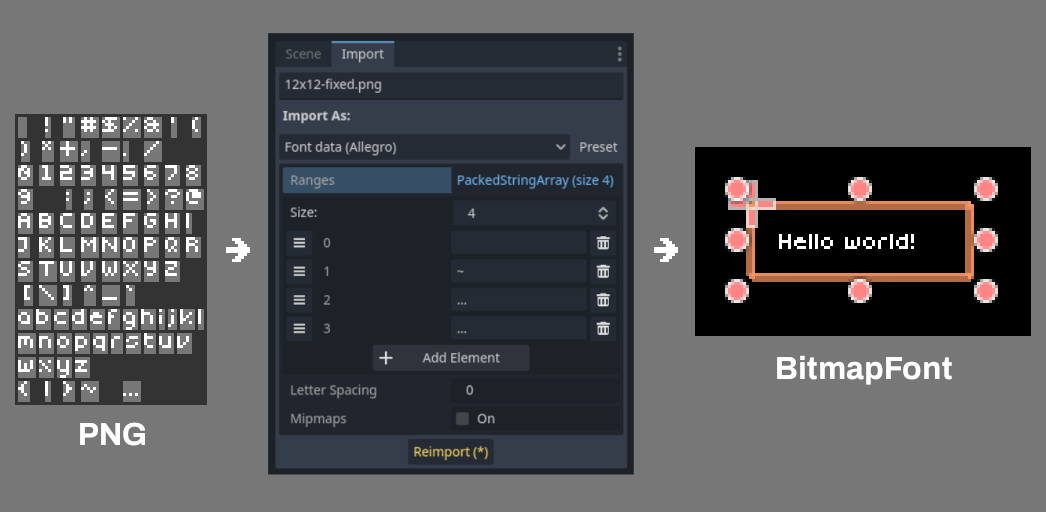
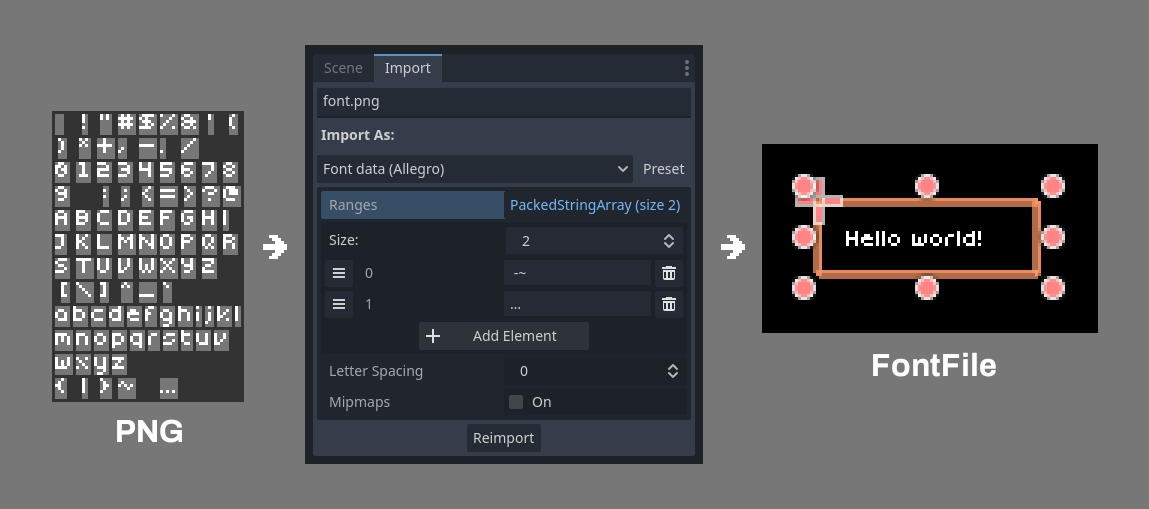
various readme+image changes
this is to bring everything up-to-date for #12

diff --git a/README.md b/README.md
@@ -12,8 +12,6 @@ Like the included monospaced bitmap font importer, this allows you to create bit
 
 ## Image format
 
-> This is heavily adapted from [Allegro's documentation](https://liballeg.org/a5docs/trunk/font.html#al_grab_font_from_bitmap).
-
 Let's explain this by example. Here's a valid (albeit tiny) PNG pixel font for the glyphs `123` and `ABC`:
 
 ![Example](./.images/example.png)
@@ -24,7 +22,7 @@ Now, let's look at how the importer interprets it. Here's that image scaled-up:
 
 * The top-leftmost pixel defines the **delimiter colour**. Every outside pixel in the image must also be this colour.
   * In the PNG above, the delimiter colour is mid-grey (`#7f7f7f`).
-  * This **shouldn't be transparent**. Instead - unlike the above - your glyphs should have transparent backgrounds, because the backgrounds will be drawn too! We've just used black so you can see it on the page.
+  * This **shouldn't be transparent**. Instead - unlike the above - your glyphs should have transparent backgrounds. Otherwise the backgrounds will be drawn too! We've just used black so you can see it on the page.
 * Glyphs are read in left-to-right, then top-to-bottom.
   * You'll probably want to arrange the glyphs in their Unicode ordering; you'll see why below.
 * Glyphs can vary in width, but must be the **same height**.
@@ -41,17 +39,23 @@ Then, select 'Font data (Allegro)' from the dropdown:
 
 ![UI](./.images/ui.png)
 
-Each pair of strings in 'Ranges' defines an **inclusive** range of Unicode characters to import from the image. So, in the above screenshot, `123` and `ABC` are imported - meaning these settings would correctly import the font we used as an example.
+Each string in 'Ranges' defines an **inclusive** range of Unicode characters to import from the image, separated by a `-`. So, in the above screenshot, `123` and `ABC` are imported - meaning these settings would correctly import the font we described above.
 
----
+### Importing single characters
 
-'Letter Spacing' is useful for padding out characters or pushing them together (if set to a negative value). The latter is especially useful for reducing the spacing on fonts which have an outline:
+If you're using a single wacky Unicode character somewhere, just type that character as the range (don't use a `-`). The example shown [at the top of the page](#abfi) uses this to import an ellipsis by itself.
+
+### Letter spacing
+
+This is useful for padding out characters or pushing them together (if set to a negative value). The latter is especially useful for reducing the spacing on fonts which have an outline:
 
 ![Letter spacing demonstration with outline font](./.images/spacing.png)
 
----
+### Mipmaps
 
-The other options (from 'Mipmaps' down) correspond to the [texture creation flags](https://docs.godotengine.org/en/3.2/classes/class_texture.html#enum-texture-flags).
+Enables texture mipmaps. This is useful for larger fonts, but not for pixel fonts. Leave this unchecked if you aren't sure.
+
+### Wrapping it up
 
 Once everything's configured, hit 'Reimport'. Hopefully, that should be it, and you can now use your PNG as a font!
 
